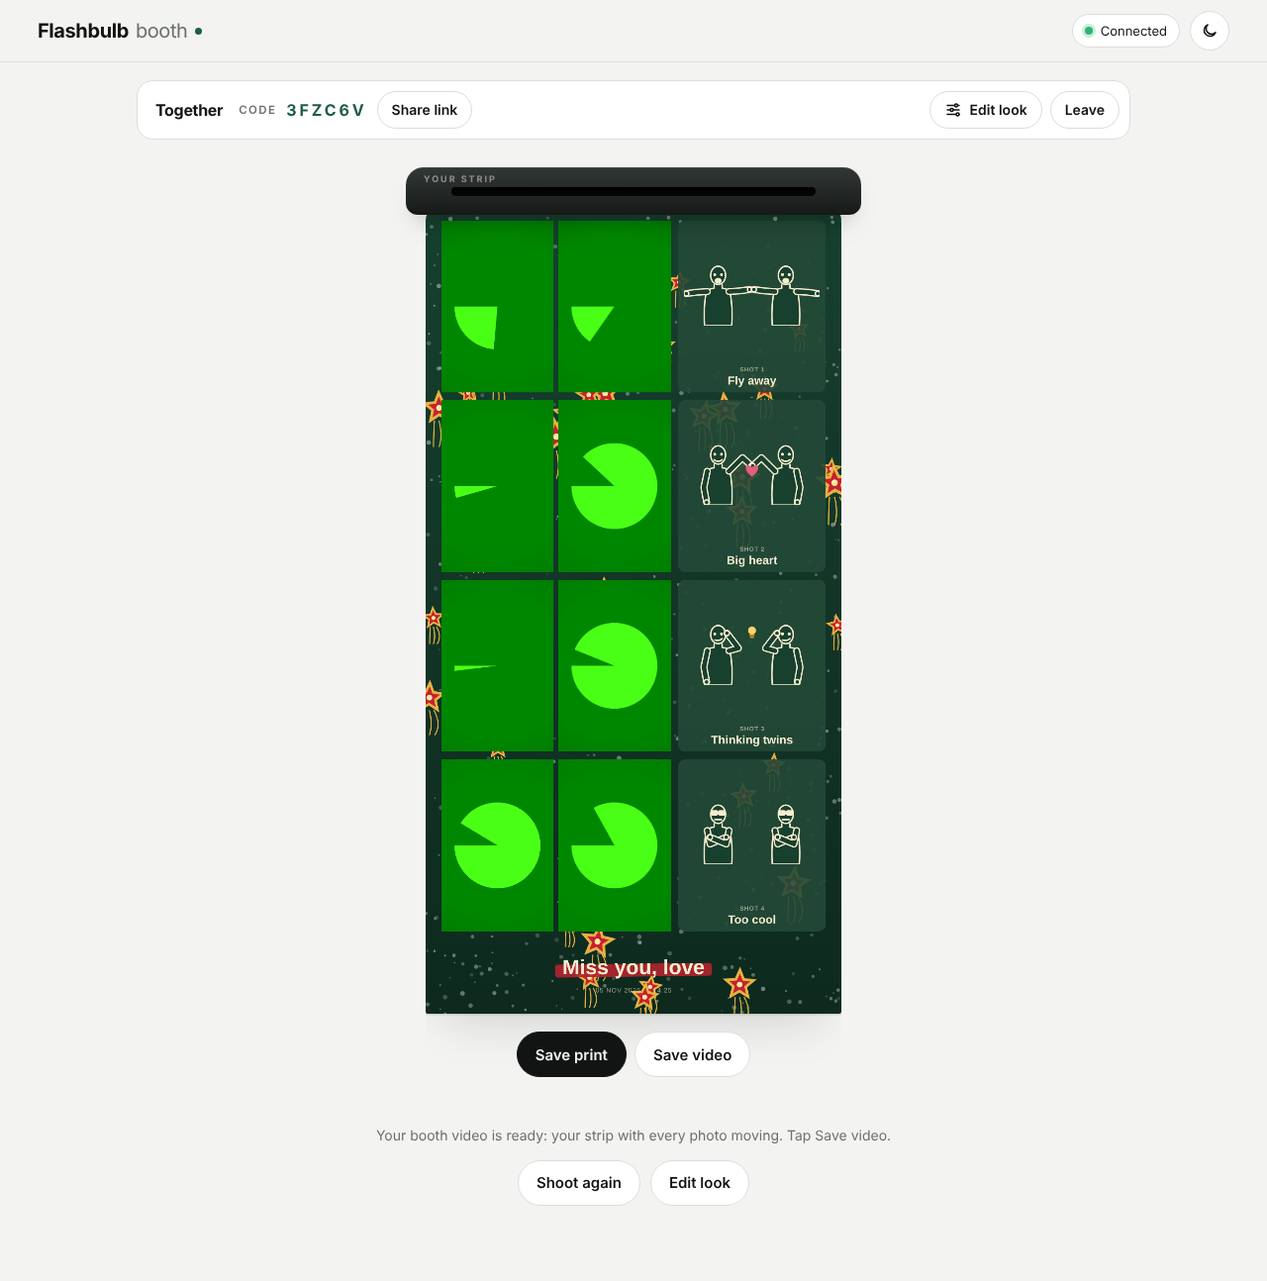
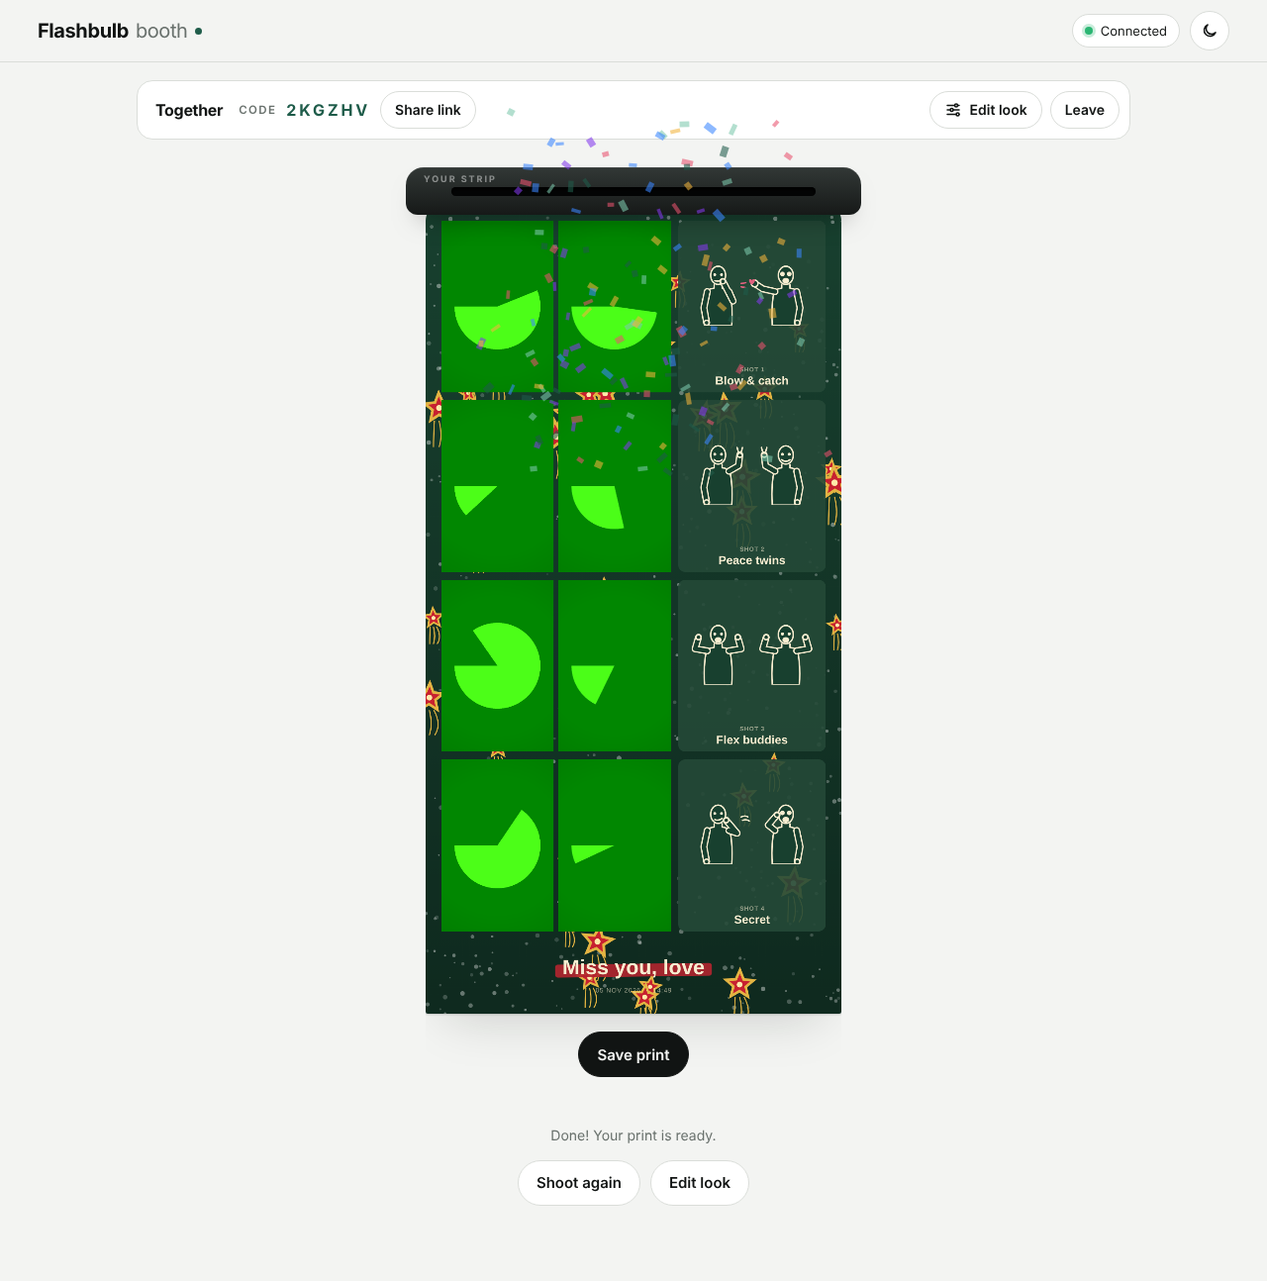
Remove Save video
The print now saves only as a picture. The pose clips recorded during
the countdown and the moving-strip video builder are gone, along with
their tests; README and screenshots updated.

diff --git a/js/booth.js b/js/booth.js
@@ -820,16 +820,14 @@
     for (const sd of ["A", "B"]) for (let i = 0; i < 4; i++) sideArr(sd)[i] = null;
     render(); renderThumbs();
     const total = nRemote || n;
-    building++; clips = []; sessionVideo = null; updateVideoBtn(); // a new session replaces the last video
     for (let i = 0; i < total; i++) {
       if (poseMode !== "off" && i < LAYOUTS[state.layout].n) { pickPose(i); $("poseRail").classList.add("live"); }
       else overlay(poseCardHTML(i, total)); // no pose guide: a short "Strike a pose!" on the camera
       if (poseMode !== "off") { const pi = poseInfo(i); setStatus(`Shot ${i + 1} of ${total}: ${pi.name}. ${pi.tip || "Get ready!"}`); }
       else setStatus(`Shot ${i + 1} of ${total}: get ready.`);
       await sleep(1800);
-      startClip(i); // keep a short clip of the pose for the moving strip
       for (const k of [3, 2, 1]) { overlay(`<div class="count">${k}</div>`); beep(k === 1 ? 990 : 660, k === 1 ? .18 : .12); await sleep(800); }
-      overlay(""); stopClip();
+      overlay("");
       const f = $("flash"); f.classList.remove("go"); void f.offsetWidth; f.classList.add("go"); shutter();
       const mine = frameFrom(pipelineOn ? fxCanvas : localVideo(), facing !== "user");
       if (mine) { sideArr(mySide)[i] = toShot(mine); send({ t: "shot", i, img: encode(mine) }); }
@@ -841,8 +839,7 @@
       await sleep(900);
     }
     busy = false; $("shootBtn").disabled = solo ? false : !(conn && conn.open); $("poseRail").classList.remove("live"); buildUI();
-    setStatus("Done! Your print is ready. Making your booth video…");
-    setTimeout(() => buildStripVideo().catch(() => setStatus("Couldn't make the booth video. Your print is still ready.", true)), 600); // after the partner's photos arrive
+    setStatus("Done! Your print is ready.");
     const st = $("strip"); st.classList.remove("develop"); void st.offsetWidth; st.classList.add("develop"); // the print develops like instant film
     dispense(); setTimeout(() => { confettiBurst(); beep(1320, .1, .12); setTimeout(() => beep(1760, .16, .12), 120); }, calm() ? 0 : 2400);
   }
@@ -939,7 +936,7 @@
     $("modeTag").textContent = "Your photos";
     ["micBtn", "flipBtn", "soundBtn"].forEach((id) => { $(id).hidden = true; });
     $("shootLabel").textContent = "Add photos"; $("shootBtn").disabled = false; $("againBtn").textContent = "Change photos";
-    renderPick(); updateVideoBtn(); setStatus("Tap Add photos, or a numbered box, to pick pictures from your gallery.");
+    renderPick(); setStatus("Tap Add photos, or a numbered box, to pick pictures from your gallery.");
   }
   $("photoMany").addEventListener("change", (e) => addPhotos(e.target.files, null));
   $("photoOne").addEventListener("change", (e) => addPhotos(e.target.files, pickSlot));
@@ -959,7 +956,7 @@
     try { actx = actx || new (window.AudioContext || window.webkitAudioContext)(); if (actx.state === "suspended") actx.resume(); return actx; } catch { return null; }
   }
   function audio() { return soundOn ? anyAudio() : null; }
-  let master = null; // every booth sound goes here: to your speaker, and into the session video while recording
+  let master = null; // every booth sound goes through here to your speaker
   function sinkFor(a) { if (!master || master.context !== a) { master = a.createGain(); master.connect(a.destination); } return master; }
   document.addEventListener("pointerdown", () => { if (soundOn) audio(); }, { once: true }); // phones only allow sound after a tap
   function beep(freq = 880, dur = .12, vol = .18) {
@@ -1010,94 +1007,6 @@
     })(start);
   }
 
-  /* ---------- Booth video: a "live strip" ----------
-     During each countdown the booth quietly keeps a short clip of you posing (and, in Together, your partner).
-     After the session it builds a video of the print where every photo plays its clip, forward and back, then
-     settles on the finished strip. No REC badge or countdown in the video. */
-  const CLIP_FPS = 12, CLIP_W = 400;
-  let clips = [], clipTimer = 0, sessionVideo = null, building = 0;
-  function recMime() {
-    if (typeof MediaRecorder === "undefined" || !HTMLCanvasElement.prototype.captureStream) return "";
-    return ["video/mp4;codecs=avc1", "video/mp4", "video/webm;codecs=vp9", "video/webm;codecs=vp8", "video/webm"]
-      .find((m) => { try { return MediaRecorder.isTypeSupported(m); } catch { return false; } }) || "";
-  }
-  // one small frame from a camera, flipped the same way as the photos (so the print's mirroring treats both alike)
-  function grabSmall(src, flip) {
-    const w = src && (src.videoWidth || src.width), h = src && (src.videoHeight || src.height); if (!w || !h) return null;
-    const s = CLIP_W / w, c = document.createElement("canvas"); c.width = CLIP_W; c.height = Math.round(h * s);
-    const g = c.getContext("2d"); if (flip) { g.translate(c.width, 0); g.scale(-1, 1); } g.drawImage(src, 0, 0, c.width, c.height);
-    return new Promise((res) => c.toBlob((b) => res(b), "image/jpeg", .8));
-  }
-  function startClip(i) {
-    if (!recMime() || photosMode) return;
-    clips[i] = { A: [], B: [] };
-    const tick = () => {
-      const mine = grabSmall(pipelineOn ? fxCanvas : localVideo(), facing !== "user");
-      if (mine) mine.then((b) => { if (b && clips[i]) clips[i][mySide].push(b); });
-      if (!solo && remoteVideo().srcObject) { const th = grabSmall(remoteVideo(), !partnerFront); if (th) th.then((b) => { if (b && clips[i]) clips[i][otherSide()].push(b); }); }
-    };
-    tick(); clearInterval(clipTimer); clipTimer = setInterval(tick, 1000 / CLIP_FPS);
-  }
-  function stopClip() { clearInterval(clipTimer); clipTimer = 0; }
-  async function buildStripVideo() {
-    const mime = recMime(); if (!mime || !clips.some((c) => c && (c.A.length || c.B.length))) return;
-    const myBuild = ++building;
-    sessionVideo = null; updateVideoBtn();
-    render();
-    const sp = spec(state.layout), n = LAYOUTS[state.layout].n;
-    const s = Math.min(1, 1280 / sp.H, 1280 / sp.W), W = Math.round(sp.W * s / 2) * 2, H = Math.round(sp.H * s / 2) * 2;
-    const base = document.createElement("canvas"); base.width = W; base.height = H; base.getContext("2d").drawImage(canvas, 0, 0, W, H);
-    const out = document.createElement("canvas"); out.width = W; out.height = H; const g = out.getContext("2d");
-    // where each clip goes on the print (each half of a frame in Together)
-    const spots = [];
-    for (let i = 0; i < n; i++) {
-      const rect = sp.slots[i], c = clips[i]; if (!rect || !c) continue;
-      const parts = state.duo ? halves(rect) : [["A", rect]];
-      parts.forEach(([sd, r]) => { if (c[sd] && c[sd].length) spots.push({ frames: c[sd], r, i, slot: rect }); });
-    }
-    const d = design(), frame = currentFrame();
-    if (!spots.length) return;
-    const len = Math.max(...spots.map((p) => p.frames.length));
-    const order = []; for (let k = 0; k < len; k++) order.push(k); for (let k = len - 2; k > 0; k--) order.push(k); // forward, then back
-    const total = order.length * 2 + Math.round(CLIP_FPS * 1.5); // two loops, then hold on the finished strip
-    let stream = out.captureStream(0), track = stream.getVideoTracks()[0];
-    if (typeof track.requestFrame !== "function") { track.stop(); stream = out.captureStream(CLIP_FPS); track = stream.getVideoTracks()[0]; } // browsers without frame-by-frame capture
-    const recd = new MediaRecorder(stream, { mimeType: mime, videoBitsPerSecond: 5e6 }), chunks = [];
-    recd.ondataavailable = (e) => { if (e.data && e.data.size) chunks.push(e.data); };
-    const done = new Promise((res) => { recd.onstop = res; });
-    recd.start(500);
-    const decode = (b) => createImageBitmap(b).catch(() => null);
-    let next = performance.now();
-    for (let f = 0; f < total; f++) {
-      if (building !== myBuild) { recd.stop(); return; } // a new session started
-      g.drawImage(base, 0, 0);
-      if (f < order.length * 2) {
-        const k = order[f % order.length];
-        const pics = await Promise.all(spots.map((p) => decode(p.frames[Math.min(k, p.frames.length - 1)])));
-        g.save(); g.scale(s, s); // draw in print pixels so the design lines up exactly
-        spots.forEach((p, j) => {
-          if (!pics[j]) return;
-          const draw = () => g.drawImage(shotImage(pics[j], p.r.w, p.r.h), p.r.x, p.r.y, p.r.w, p.r.h);
-          if (d.shot) d.shot(g, p.r, p.i, draw, frame); else draw();
-          pics[j].close && pics[j].close();
-        });
-        if (d.over) [...new Set(spots.map((p) => p.i))].forEach((i) => d.over(g, sp.slots[i], i, frame));
-        g.restore();
-      }
-      track.requestFrame ? track.requestFrame() : null;
-      if (f % 6 === 0) setStatus(`Making your booth video… ${Math.round((f / total) * 100)}%`);
-      next += 1000 / CLIP_FPS; const wait = next - performance.now(); if (wait > 0) await sleep(wait);
-    }
-    await sleep(200); recd.stop(); await done; track.stop();
-    if (building !== myBuild || !chunks.length) return;
-    sessionVideo = new Blob(chunks, { type: mime.split(";")[0] }); updateVideoBtn();
-    setStatus("Your booth video is ready: your strip with every photo moving. Tap Save video.");
-  }
-  function updateVideoBtn() {
-    const b = $("videoBtn"); b.hidden = !recMime() || photosMode;
-    b.disabled = !sessionVideo; b.title = sessionVideo ? "Save your strip as a video" : "Take your shots first. The booth makes a moving strip for you.";
-  }
-
   /* ---------- save / share ---------- */
   function fileName() {
     const d = new Date(), st = `${d.getFullYear()}-${String(d.getMonth() + 1).padStart(2, "0")}-${String(d.getDate()).padStart(2, "0")}`;
@@ -1109,7 +1018,7 @@
     if (isIOS && navigator.canShare) {
       const file = new File([blob], name, { type: blob.type });
       if (navigator.canShare({ files: [file] })) {
-        try { await navigator.share({ files: [file] }); setStatus(`Tap "Save Image" or "Save Video" to keep your ${what} in Photos.`); return; }
+        try { await navigator.share({ files: [file] }); setStatus(`Tap "Save Image" to keep your ${what} in Photos.`); return; }
         catch (e) { if (e && e.name === "AbortError") return; }
       }
     }
@@ -1123,12 +1032,6 @@
       saveBlob(b, fileName(), "print");
     }, "image/png");
   });
-  const baseName = () => fileName().replace(/\.png$/, "");
-  $("videoBtn").addEventListener("click", () => {
-    if (!sessionVideo) { setStatus("Take your shots first. The booth makes a moving strip of your session."); return; }
-    saveBlob(sessionVideo, baseName() + (sessionVideo.type.includes("mp4") ? ".mp4" : ".webm"), "booth video");
-  });
-  updateVideoBtn();
   $("shareImgBtn").addEventListener("click", () => {
     render();
     canvas.toBlob(async (b) => {
@@ -1155,7 +1058,7 @@
     cancelAnimationFrame(fxRaf);
   }
   $("leaveBtn").addEventListener("click", () => { stopAll(); location.href = location.pathname; });
-  if (params.get("test") === "1") window.__fbTest = { sounds: () => soundsPlayed, video: () => sessionVideo, clips: () => clips.map((c) => c ? [c.A.length, c.B.length] : [0, 0]), drop() { try { if (conn) conn.close(); } catch (e) {} try { if (call) call.close(); } catch (e) {} } };
+  if (params.get("test") === "1") window.__fbTest = { sounds: () => soundsPlayed, drop() { try { if (conn) conn.close(); } catch (e) {} try { if (call) call.close(); } catch (e) {} } };
   window.addEventListener("pagehide", stopAll);
 
   $("soloBtn").addEventListener("click", () => enterSetup("solo"));

diff --git a/tests/e2e.js b/tests/e2e.js
@@ -157,13 +157,7 @@ async function makeFaceVideo(browser) {
   check('Both prints drop out of the booth slot', (await view(A)) === 'result' && (await view(B)) === 'result' && await A.evaluate(() => document.getElementById('tray').contains(document.getElementById('printBox')) && document.getElementById('printBox').classList.contains('dispense')));
   check('Host has all 8 photos (4 each side)', (await filled(A)) === 8, String(await filled(A)));
   check('Partner has all 8 photos', (await filled(B)) === 8, String(await filled(B)));
-  await A.waitForFunction(() => document.getElementById('status').textContent.includes('booth video is ready'), null, { timeout: 60000 }).catch(() => {});
-  await B.waitForFunction(() => !document.getElementById('videoBtn').disabled, null, { timeout: 60000 }).catch(() => {});
-  check('Both partners get the booth video of the session', !(await A.isDisabled('#videoBtn')) && !(await B.isDisabled('#videoBtn')));
-  const tv = await A.evaluate(async () => { const b = window.__fbTest.video(); return b ? { size: b.size, type: b.type } : null; });
-  const cl = await A.evaluate(() => window.__fbTest.clips());
-  check('Every shot has a pose clip of both people', cl.length === 4 && cl.every(([x, y]) => x >= 15 && y >= 15), JSON.stringify(cl));
-  check('Together video is made (both people in every frame)', !!tv && tv.size > 50000, tv ? `${Math.round(tv.size / 1024)} KB ${tv.type}` : 'none');
+  check('Together: only Save print, no Save video', (await A.locator('#videoBtn').count()) === 0 && (await B.locator('#videoBtn').count()) === 0);
   check('Print saves as PNG', (await A.evaluate(() => new Promise((r) => document.getElementById('strip').toBlob((x) => r(x ? x.size : 0))))) > 0);
   await A.screenshot({ path: OUT + '/booth-host.png', fullPage: true });
   await B.screenshot({ path: OUT + '/booth-partner.png', fullPage: true });
@@ -215,7 +209,6 @@ async function makeFaceVideo(browser) {
   const sdl = S.waitForEvent('download', { timeout: 5000 }).catch(() => null);
   await S.click('#saveBtn'); const sd = await sdl;
   check('Photos: Save print downloads a file', !!sd, sd ? sd.suggestedFilename() : '');
-  check('Photos: no session video button (nothing was recorded)', await S.isHidden('#videoBtn'));
   await S.screenshot({ path: OUT + '/photos-mode.png', fullPage: true });
   await S.goto('http://localhost:8080/solo/?nosw=1'); await S.waitForTimeout(1200);
   check('Old /solo/ link opens Use my photos', (await S.textContent('#modeTag').catch(() => '')) === 'Your photos' && await S.isVisible('#photoPick'));
@@ -280,33 +273,8 @@ async function makeFaceVideo(browser) {
   check('Just me saves the print', !!jd, jd ? jd.suggestedFilename() : '');
   check('Countdown beeps and shutter sounds play', (await J.evaluate(() => window.__fbTest.sounds())) >= 16, String(await J.evaluate(() => window.__fbTest.sounds())));
   check('The print develops like instant film', await J.evaluate(() => document.getElementById('strip').classList.contains('develop')));
-  // Save video: a moving version of the strip (each photo plays the pose clip), no REC or countdown
   check('No REC badge or recording overlay', (await J.locator('#recDot').count()) === 0);
-  await J.waitForFunction(() => document.getElementById('status').textContent.includes('booth video is ready'), null, { timeout: 60000 }).catch(() => {});
-  check('Booth video is ready after the session', !(await J.isDisabled('#videoBtn')), await J.textContent('#status'));
-  const vdl = J.waitForEvent('download', { timeout: 10000 }).catch(() => null);
-  await J.click('#videoBtn'); const vd = await vdl; let vidInfo = '', vidOk = false, vidFile = '';
-  if (vd) { vidFile = OUT + '/strip-video' + path.extname(vd.suggestedFilename()); fs.copyFileSync(await vd.path(), vidFile); const sz = fs.statSync(vidFile).size; vidOk = sz > 50000 && /\.(webm|mp4)$/.test(vd.suggestedFilename()); vidInfo = `${vd.suggestedFilename()}, ${Math.round(sz / 1024)} KB`; }
-  check('Save video saves the moving strip', vidOk, vidInfo);
-  if (vidFile) {
-    const V = await J.context().newPage();
-    await V.setContent('<video id=v muted style="width:300px"></video>');
-    const info = await V.evaluate(async (b64) => {
-      const v = document.getElementById('v');
-      v.src = URL.createObjectURL(new Blob([Uint8Array.from(atob(b64), (ch) => ch.charCodeAt(0))]));
-      await new Promise((r) => { v.onloadeddata = r; v.onerror = r; });
-      if (!isFinite(v.duration)) { v.currentTime = 1e6; await new Promise((r) => { v.ontimeupdate = r; setTimeout(r, 2000); }); }
-      const shot = async (t) => { await new Promise((r) => { v.onseeked = r; v.currentTime = t; }); const c = document.createElement('canvas'); c.width = v.videoWidth; c.height = v.videoHeight; const g = c.getContext('2d'); g.drawImage(v, 0, 0); return g.getImageData(0, 0, c.width, Math.round(c.height * .22)).data; };
-      // compare a few moments of the clip loop (on a slow computer two moments can land on similar frames)
-      const a = await shot(0.4); let diff = 0;
-      for (const t of [0.9, 1.4, 1.9, 2.4]) { const b = await shot(t); let n = 0; for (let i = 0; i < a.length; i += 4) if (Math.abs(a[i] - b[i]) + Math.abs(a[i + 1] - b[i + 1]) + Math.abs(a[i + 2] - b[i + 2]) > 60) n++; diff = Math.max(diff, n); }
-      return { d: v.duration, w: v.videoWidth, h: v.videoHeight, diff };
-    }, fs.readFileSync(vidFile).toString('base64'));
-    check('The video is the strip (tall like the print)', info.h > info.w * 1.5, `${info.w}x${info.h}, ${info.d.toFixed(1)} s`);
-    check('The photos in the strip move (pose clips play)', info.diff > 500, `${info.diff} pixels changed in shot 1`);
-    for (const t2 of [0.5, 2.0, info.d - 0.3]) { await V.evaluate((t3) => new Promise((r) => { const v = document.getElementById('v'); v.onseeked = r; v.currentTime = t3; }), t2); await V.waitForTimeout(100); await V.locator('#v').screenshot({ path: OUT + `/strip-video-${t2.toFixed(1)}.png` }); }
-    await V.close();
-  }
+  check('Only Save print: no Save video button', (await J.locator('#videoBtn').count()) === 0 && await J.isVisible('#saveBtn'));
   await J.screenshot({ path: OUT + '/result.png', fullPage: true });
   await J.click('#againBtn');
   check('Shoot again goes back to the camera', (await view(J)) === 'shoot' && await J.isVisible('#shootBtn'));

diff --git a/index.html b/index.html
@@ -214,7 +214,6 @@
         <canvas id="strip" class="strip" role="img" aria-label="Your print"></canvas>
         <div class="print-actions">
           <button class="btn solid" id="saveBtn" type="button">Save print</button>
-          <button class="btn" id="videoBtn" type="button" disabled>Save video</button>
           <button class="btn" id="shareImgBtn" type="button" hidden>Share print</button>
         </div>
       </div>

diff --git a/README.md b/README.md
@@ -18,7 +18,7 @@ A photo booth in your browser. Shoot on your own, or with someone far away while
 
 1. **Choose your look.** Before any camera turns on, pick your layout, film, design, poses and caption, with a big preview of your print beside them.
 2. **Shoot.** Tap **Start camera** (or **Open my booth** in Together). Now the screen shows only your camera, the poses beside it and the shutter button. To change something, tap **Edit look** and the settings slide in from the side.
-3. **Your print drops out.** After the last flash, the strip feeds out of the booth slot with a motor sound, settles and develops. Then save it, save the video, **Shoot again** or **Edit look**.
+3. **Your print drops out.** After the last flash, the strip feeds out of the booth slot with a motor sound, settles and develops. Then save it, **Shoot again** or **Edit look**.
 
 ![Your print feeding out of the booth slot](docs/print-drop.png)
 
@@ -28,7 +28,7 @@ A photo booth in your browser. Shoot on your own, or with someone far away while
 2. **Your partner joins** from the link, or by typing the code and tapping **Join**.
 3. **See each other live.** You're on the left and your partner is on the right. Use the mic button to mute, and the camera button to switch between front and back cameras.
 4. **Tap Start 4 shots.** Both screens show the same pose card, count down together and flash. Each phone takes a full-quality photo from its own camera, and the two phones swap photos automatically.
-5. **Save the print**, or **Save video** for the moving strip (see below). **Share print** sends it straight to apps on your phone.
+5. **Save the print**. **Share print** sends it straight to apps on your phone.
 
 If the connection drops for a moment, the booth reconnects by itself.
 
@@ -58,7 +58,7 @@ The **Design** tab shows a small live preview of your print in every style, so y
 | **Instant** | Little tilted instant photos on a table, with a handwritten caption |
 | **Neon** | Dark grid with glowing pink and cyan frames |
 
-The **season** themes (Pasko, Valentine, Summer, Spring, Halloween, New Year) are in the same tab. The design also applies to the moving-strip video, and in Together it's synced to both screens.
+The **season** themes (Pasko, Valentine, Summer, Spring, Halloween, New Year) are in the same tab. In Together the design is synced to both screens.
 
 ![Design tab with previews of each style](docs/designs.png)
 
@@ -74,14 +74,11 @@ Stickers show in your preview, in every photo on the print and, in Together, on 
 
 ![Puppy sticker following a face](docs/stickers.png)
 
-## Save the print and the booth video
+## Save the print
 
-When your shots are done, the print slides out and develops like an instant photo, with a burst of confetti. Then:
+When your shots are done, the print drops out of the slot and develops like an instant photo, with a burst of confetti. Tap **Save print** for the full strip as a PNG picture.
 
-- **Save print:** the full strip as a PNG picture.
-- **Save video:** a moving version of your strip, like the "live strips" from real photo booths. During each countdown the booth quietly keeps a short clip of you posing (and your partner in Together). Afterwards it makes a video of your print where every photo plays its clip forward and back, with your frame, film look, poses and caption, and ends on the finished strip. There's no countdown or REC badge in the video. It's made on your phone (MP4 on most phones, WebM in some browsers) and isn't uploaded anywhere.
-
-On iPhone and iPad, saving opens the share sheet. Tap **Save Image** or **Save Video** to put it in Photos.
+On iPhone and iPad, saving opens the share sheet. Tap **Save Image** to put it in Photos.
 
 ## Features
 
@@ -134,7 +131,7 @@ The booth then uses the relay only when a direct connection isn't possible. `con
 |---|---|
 | `index.html` | The page: start screen and booth layout |
 | `css/booth.css` | All the styles, light and dark |
-| `js/booth.js` | The app: camera, connection, shooting, print and the session video |
+| `js/booth.js` | The app: camera, connection, shooting and the print |
 | `js/looks.js` | Layouts, film looks, frame colors and season themes |
 | `js/designs.js` | Print designs: Classic, Modern, Brutalist, Editorial, Film, Instant, Neon |
 | `js/poses.js` | Pose artwork: classic and meme, solo and duo |
@@ -187,12 +184,12 @@ The test starts a local web server and a local PeerJS server, opens two browsers
 - that settings sync both ways through the Edit look drawer
 - that both prints drop out of the slot
 - that both screens get the same pose and countdown
-- that all 8 photos arrive (4 from each person), and both partners get the moving-strip video with clips of both people
+- that all 8 photos arrive (4 from each person)
 - that saving downloads the print
 - that a dropped connection reconnects by itself and the video comes back
 - what happens when a partner leaves
 - that the phone layout doesn't scroll sideways
-- Just me: the Design tab (7 styles and 6 seasons with previews, picking one restyles the print), the camera, pose list and swapping, 4 shots, sounds, the print dropping out and developing, Shoot again, saving the print, and the moving-strip video (tall like the print, with the photos moving)
+- Just me: the Design tab (7 styles and 6 seasons with previews, picking one restyles the print), the camera, pose list and swapping, 4 shots, sounds, the print dropping out and developing, Shoot again, and saving the print (with no Save video button)
 - offline: the booth, Just me and Use my photos open with no internet
 - face stickers, using a fake camera made from a public-domain portrait (`tests/fixtures/`): the face is found, stickers appear, follow the face and stay steady, end up in the print, and your partner sees them
 - lighter mode still tracks faces
